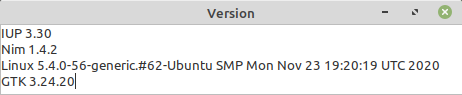
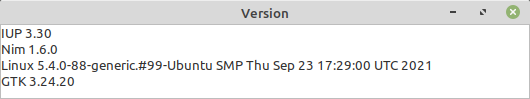
Nim 1.6.0

diff --git a/README.md b/README.md
@@ -4,7 +4,7 @@ IUP is a multi-platform toolkit for building graphical user interfaces.
 
 Easy to use API for building desktop applications. Same code runs on Linux and Windows.
 
-Tested with Nim 1.2.6 and IUP 3.30
+Tested with Nim 1.6.0 and IUP 3.30
 - Linux, GTK
 - Windows on Linux (cross-compiling, mingw, wine)
 - Windows (reported working)
